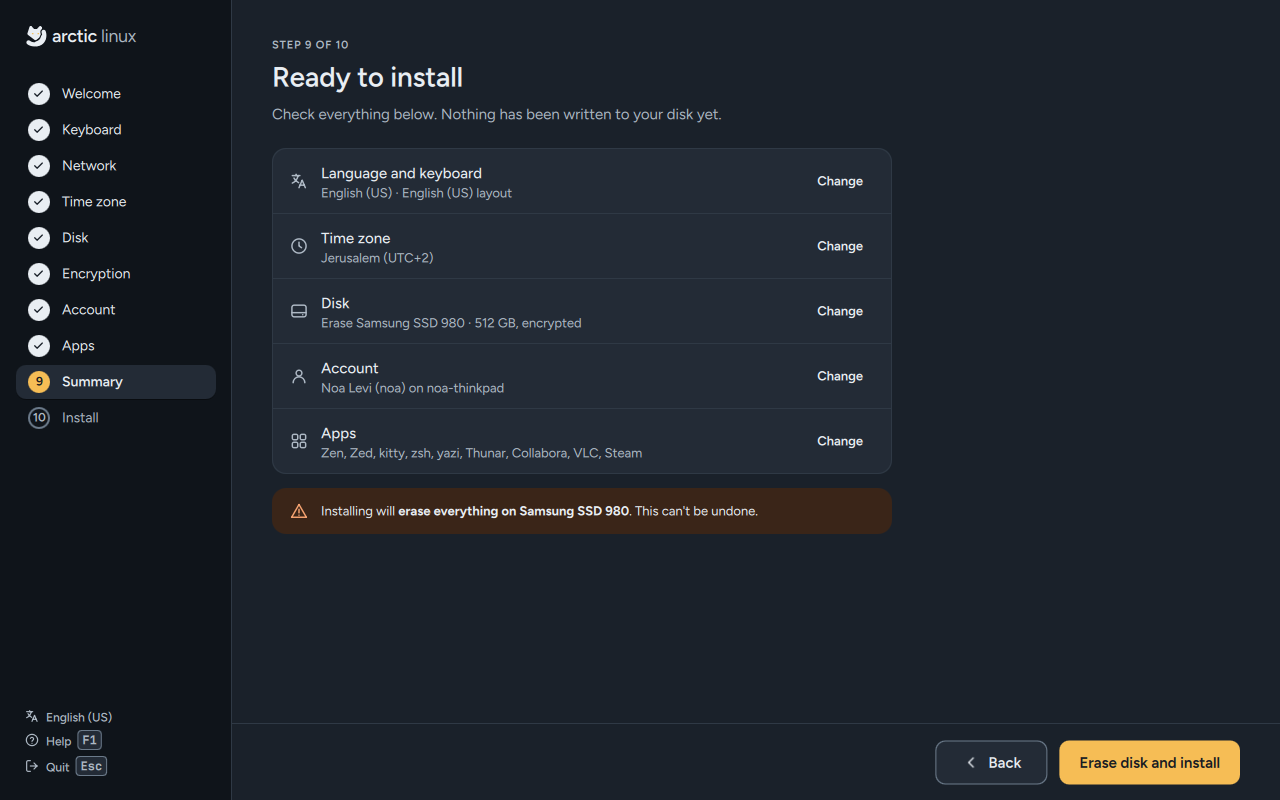
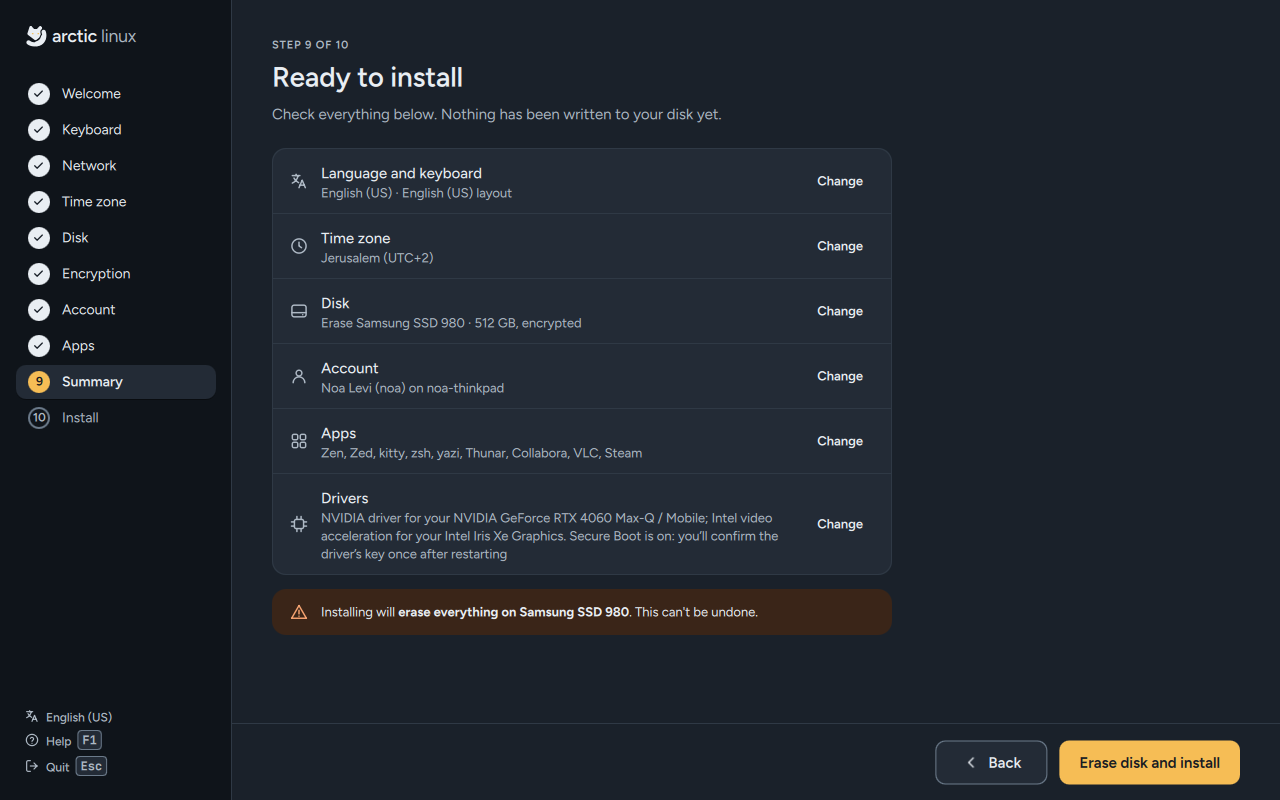
Installer UI: Done step scrolls; Secure Boot steps before the driver list; screenshots
Claude-Session: https://claude.ai/code/session_01JNnkpt7ibEXwws79EyjFZ7

Changed region(s): [[0.1875, 0.5938, 0.7188, 0.8125]]

diff --git a/installer-ui/steps/DoneStep.qml b/installer-ui/steps/DoneStep.qml
@@ -36,100 +36,119 @@ StepPage {
         Qt.quit();
     }
 
-    Column {
-        width: page.width
-        spacing: Theme.space4
+    // Scrolls when the driver and Secure Boot cards don't fit above the footer.
+    fade: doneColumn.height + 8 > page.availableHeight + 4
 
-        ArCard {
-            width: parent.width
-            iconName: "usb"
-            title: "Remove the USB stick"
-            desc: "Take it out now, then restart. Your computer will start Arctic Linux" + (Wizard.encryptionEnabled ? " and ask for your disk passphrase." : ".")
-        }
+    Flickable {
+        id: doneFlick
+        width: page.width + 8
+        x: -4
+        y: -4
+        height: Math.min(doneColumn.height + 8, page.availableHeight + 4)
+        contentHeight: doneColumn.height + (page.fade ? 48 : 8) // room above the footer's fade
+        clip: true
+        boundsBehavior: Flickable.StopAtBounds
+        interactive: contentHeight > height
+        Accessible.role: Accessible.Pane
 
-        ArCard {
-            visible: page.drivers.length > 0
-            width: parent.width
-            iconName: "cpu"
-            title: page.drivers.length === 1 ? "Driver" : "Drivers"
-            desc: page.drivers.map(d => d.text).join("\n")
-        }
+        Column {
+            id: doneColumn
+            x: 4
+            y: 4
+            width: page.width
+            spacing: Theme.space4
 
-        // Secure Boot: enroll the driver's signing key on the first restart.
-        ArCard {
-            id: mokCard
-            visible: page.secureBoot !== null
-            width: parent.width
-            iconName: "shield-lock"
-            iconColor: page.secureBoot && page.secureBoot.failed ? Theme.warning : Theme.inkMuted
-            title: page.secureBoot ? page.secureBoot.title : ""
-            desc: page.secureBoot ? page.secureBoot.intro : ""
-
-            Item {
+            ArCard {
                 width: parent.width
-                height: Theme.space2
+                iconName: "usb"
+                title: "Remove the USB stick"
+                desc: "Take it out now, then restart. Your computer will start Arctic Linux" + (Wizard.encryptionEnabled ? " and ask for your disk passphrase." : ".")
             }
-            Repeater {
-                model: page.secureBoot ? page.secureBoot.steps : []
-                delegate: ArText {
-                    required property var modelData
-                    required property int index
-                    width: mokCard.width - 2 * mokCard.pad - 24 - Theme.space3
-                    text: (index + 1) + ". " + modelData
-                    size: 14
-                    lh: 20
-                    wrapMode: Text.WordWrap
-                    color: Theme.ink
+
+            // Secure Boot: enroll the driver's signing key on the first restart.
+            ArCard {
+                id: mokCard
+                visible: page.secureBoot !== null
+                width: parent.width
+                iconName: "shield-lock"
+                iconColor: page.secureBoot && page.secureBoot.failed ? Theme.warning : Theme.inkMuted
+                title: page.secureBoot ? page.secureBoot.title : ""
+                desc: page.secureBoot ? page.secureBoot.intro : ""
+
+                Item {
+                    width: parent.width
+                    height: Theme.space2
                 }
-            }
-            // The code, large, so it can be copied onto paper or a phone before restarting.
-            Row {
-                visible: page.secureBoot !== null && (page.secureBoot.code || "") !== ""
-                spacing: Theme.space3
-                topPadding: Theme.space2
-                bottomPadding: Theme.space1
+                Repeater {
+                    model: page.secureBoot ? page.secureBoot.steps : []
+                    delegate: ArText {
+                        required property var modelData
+                        required property int index
+                        width: mokCard.width - 2 * mokCard.pad - 24 - Theme.space3
+                        text: (index + 1) + ". " + modelData
+                        size: 14
+                        lh: 20
+                        wrapMode: Text.WordWrap
+                        color: Theme.ink
+                    }
+                }
+                // The code, large, so it can be copied onto paper or a phone before restarting.
+                Row {
+                    visible: page.secureBoot !== null && (page.secureBoot.code || "") !== ""
+                    spacing: Theme.space3
+                    topPadding: Theme.space2
+                    bottomPadding: Theme.space1
+                    ArText {
+                        anchors.verticalCenter: parent.verticalCenter
+                        text: "One-time code"
+                        size: 13
+                        lh: 18
+                        color: Theme.inkMuted
+                    }
+                    ArText {
+                        text: page.secureBoot ? page.secureBoot.code || "" : ""
+                        font.family: Theme.fontMono
+                        size: 22
+                        lh: 30
+                        weight: Font.Bold
+                        tracking: 0.12
+                        Accessible.name: "One-time code " + (page.secureBoot && page.secureBoot.code ? page.secureBoot.code.split("").join(" ") : "")
+                    }
+                }
                 ArText {
-                    anchors.verticalCenter: parent.verticalCenter
-                    text: "One-time code"
+                    visible: page.secureBoot !== null && (page.secureBoot.note || "") !== ""
+                    width: mokCard.width - 2 * mokCard.pad - 24 - Theme.space3
+                    text: page.secureBoot ? page.secureBoot.note || "" : ""
                     size: 13
                     lh: 18
+                    wrapMode: Text.WordWrap
                     color: Theme.inkMuted
                 }
-                ArText {
-                    text: page.secureBoot ? page.secureBoot.code || "" : ""
-                    font.family: Theme.fontMono
-                    size: 22
-                    lh: 30
-                    weight: Font.Bold
-                    tracking: 0.12
-                    Accessible.name: "One-time code " + (page.secureBoot && page.secureBoot.code ? page.secureBoot.code.split("").join(" ") : "")
-                }
             }
-            ArText {
-                visible: page.secureBoot !== null && (page.secureBoot.note || "") !== ""
-                width: mokCard.width - 2 * mokCard.pad - 24 - Theme.space3
-                text: page.secureBoot ? page.secureBoot.note || "" : ""
-                size: 13
-                lh: 18
-                wrapMode: Text.WordWrap
-                color: Theme.inkMuted
+
+            ArCard {
+                visible: page.drivers.length > 0
+                width: parent.width
+                iconName: "cpu"
+                title: page.drivers.length === 1 ? "Driver" : "Drivers"
+                desc: page.drivers.map(d => d.text).join("\n")
             }
-        }
 
-        // Restart refused or failed: say so, and how else to restart.
-        ArBanner {
-            visible: page.rebootError !== ""
-            width: parent.width
-            kind: "error"
-            strong: true
-            text: page.rebootError.replace(/&/g, "&amp;").replace(/</g, "&lt;") + " Choose Keep trying, then restart from the power button on the top bar."
-        }
+            // Restart refused or failed: say so, and how else to restart.
+            ArBanner {
+                visible: page.rebootError !== ""
+                width: parent.width
+                kind: "error"
+                strong: true
+                text: page.rebootError.replace(/&/g, "&amp;").replace(/</g, "&lt;") + " Choose Keep trying, then restart from the power button on the top bar."
+            }
 
-        ArBanner {
-            visible: Wizard.deferredApps.length > 0
-            width: parent.width
-            kind: "info"
-            text: Wizard.deferredApps.join(", ") + (Wizard.deferredApps.length === 1 ? " isn’t" : " aren’t") + " installed. You can add " + (Wizard.deferredApps.length === 1 ? "it" : "them") + " later from the Software app."
+            ArBanner {
+                visible: Wizard.deferredApps.length > 0
+                width: parent.width
+                kind: "info"
+                text: Wizard.deferredApps.join(", ") + (Wizard.deferredApps.length === 1 ? " isn’t" : " aren’t") + " installed. You can add " + (Wizard.deferredApps.length === 1 ? "it" : "them") + " later from the Software app."
+            }
         }
     }
 }
